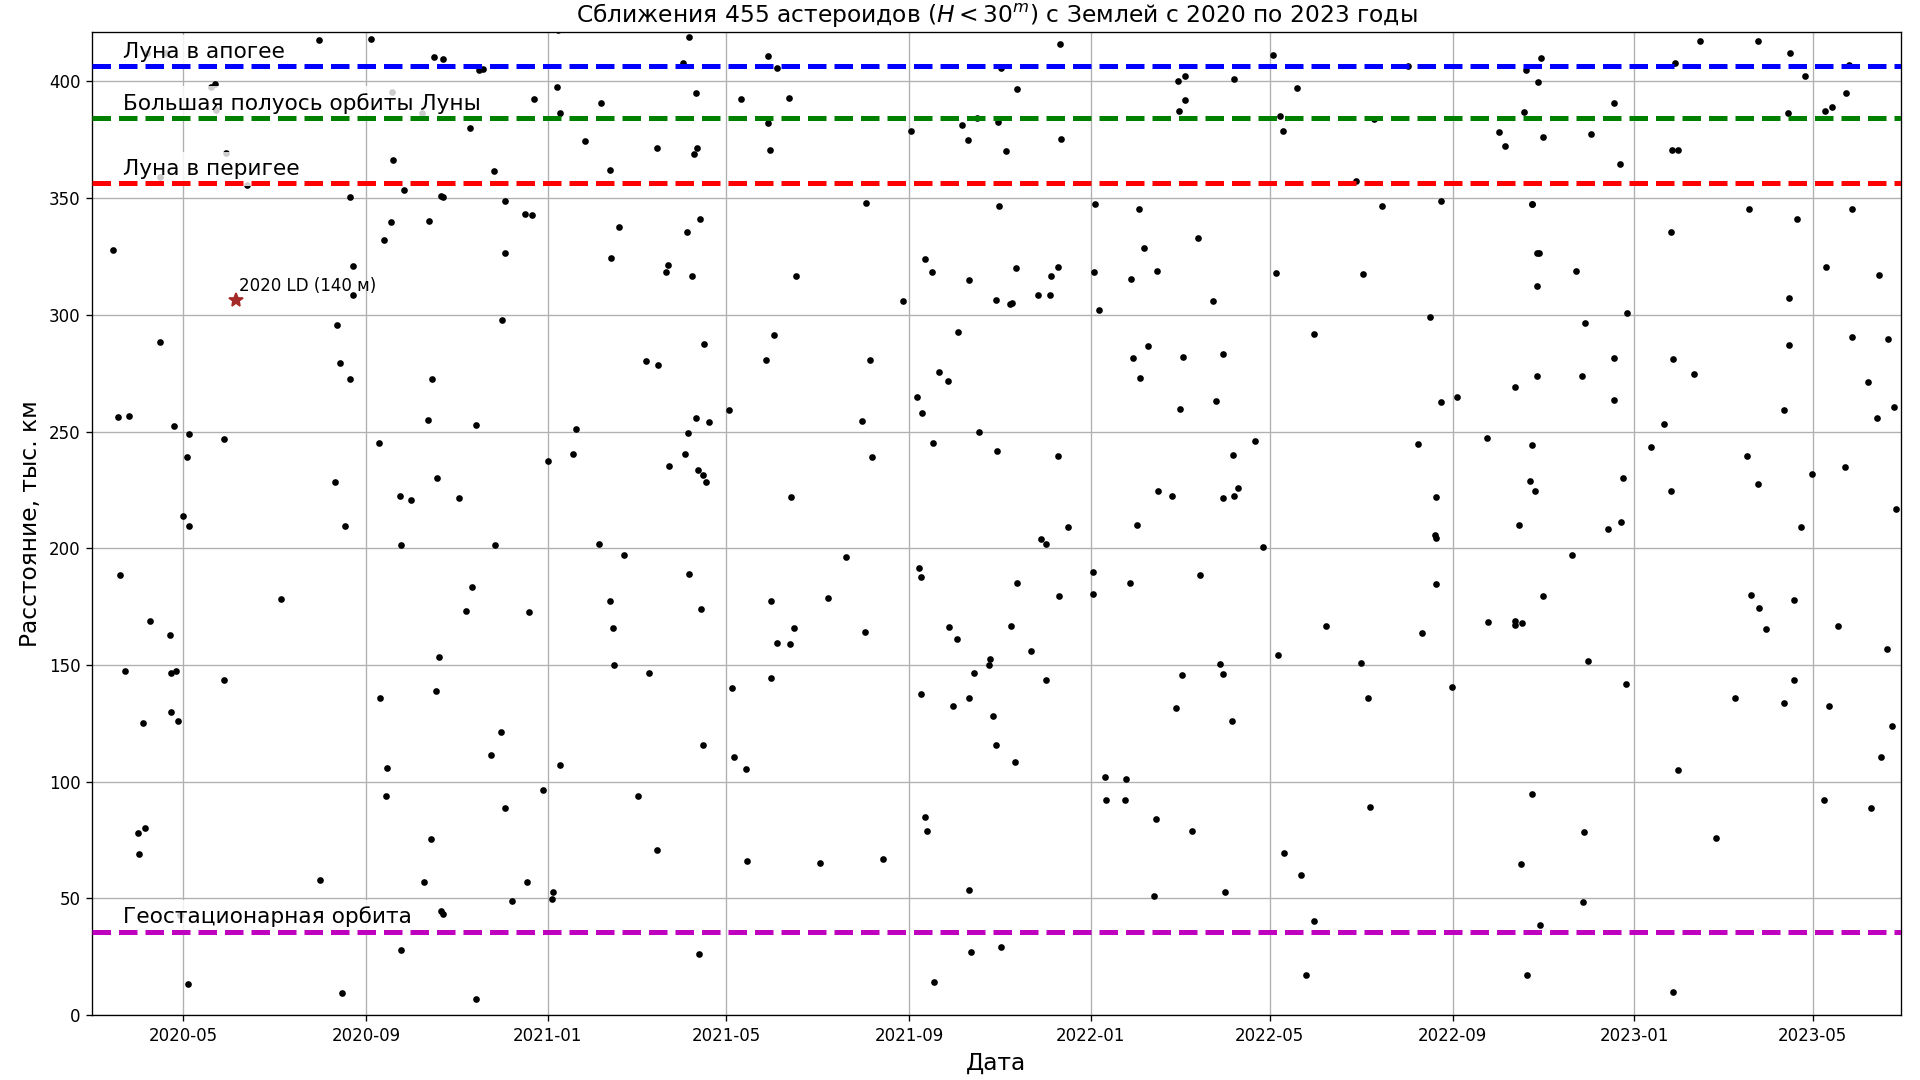
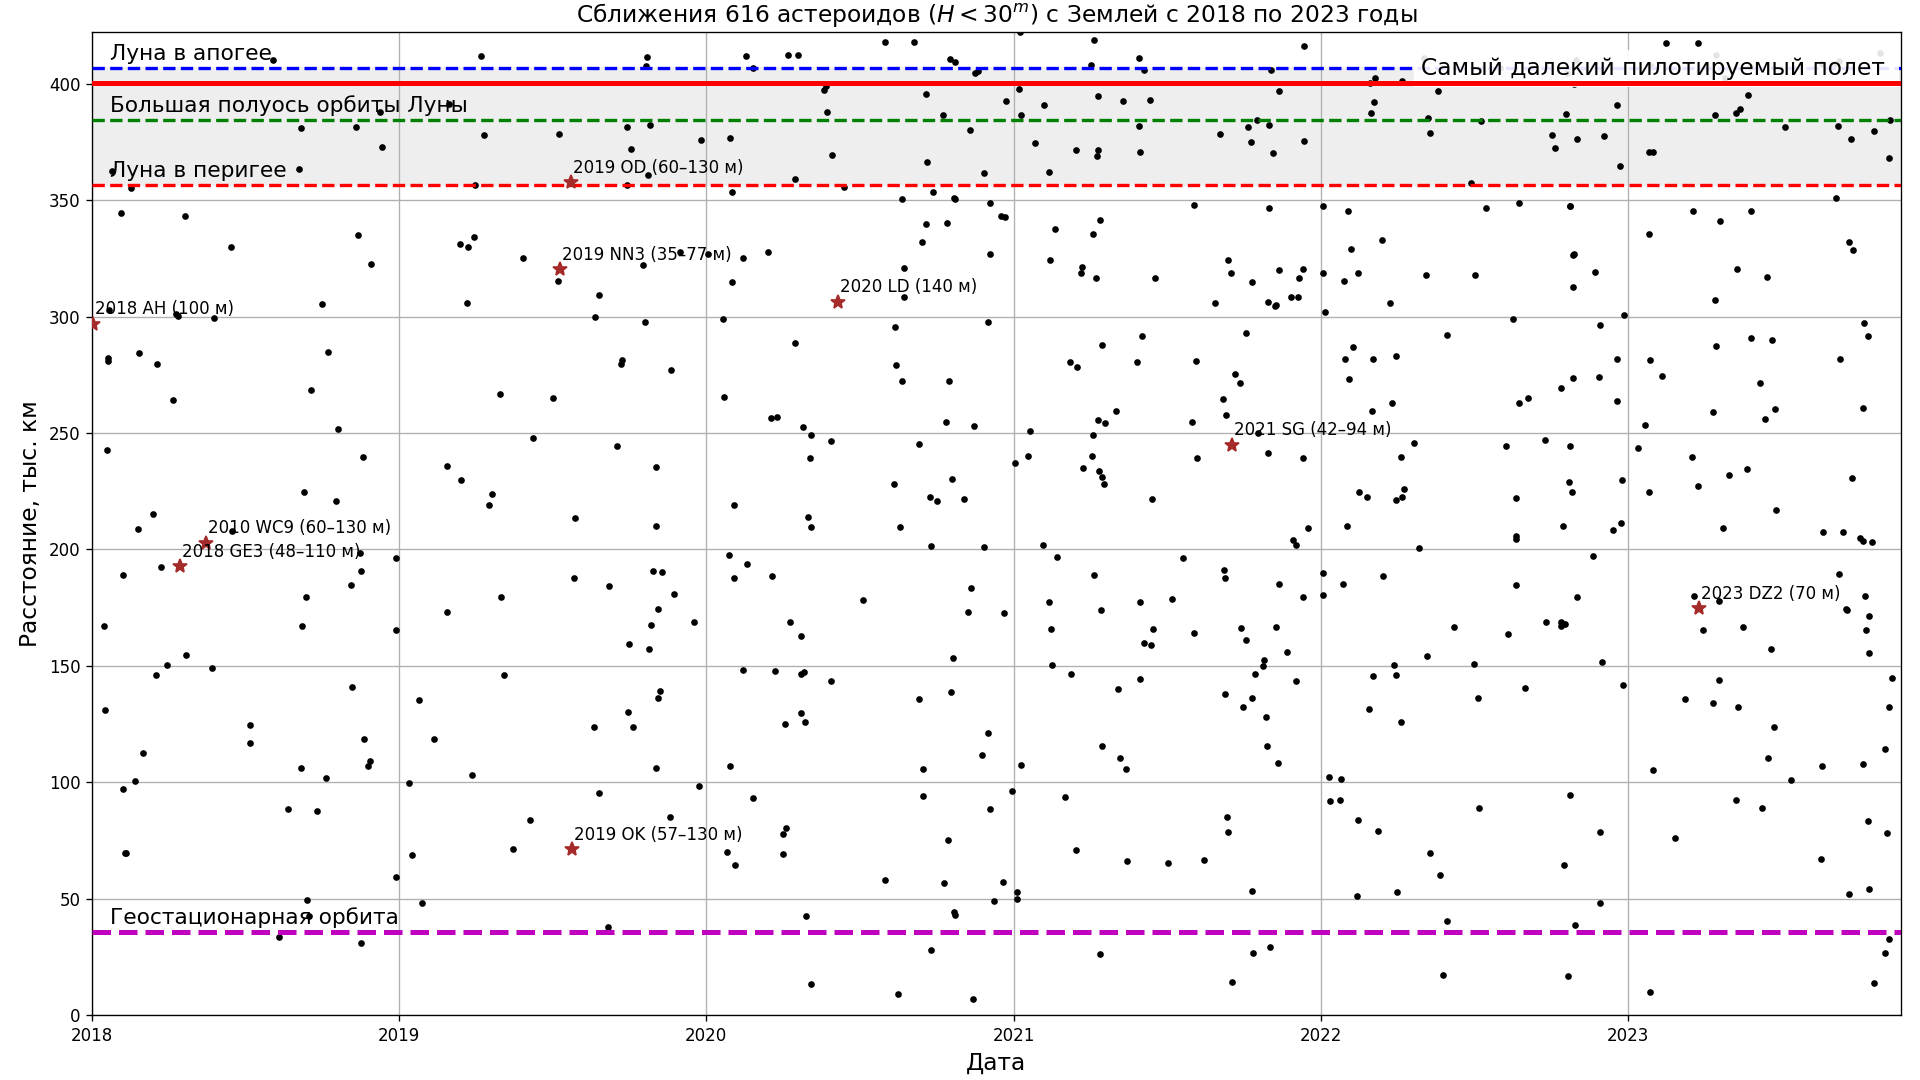
update plot, add code

diff --git a/src/astrodata/solarsystem/plot_close_approaches.py b/src/astrodata/solarsystem/plot_close_approaches.py
@@ -1,0 +1,106 @@
+"""Python script for plotting a chart with close asteroid approaches
+at a distance of up to 1.1 LD (~422800 km) using a Small-Body DataBase
+(SBDB) Close-Approach Data API.
+Data source: https://ssd-api.jpl.nasa.gov/doc/cad.html
+"""
+
+import json
+import urllib.request
+from datetime import datetime, timedelta
+
+import matplotlib.pyplot as plt
+
+
+TODAY = datetime.now()
+DIST_MAX = "1.1"
+MOON_DIST = (356353, 384399, 406720)
+HMAX = 30
+START = datetime(2018, 1, 1)
+DATE_LIM = START.strftime("%Y-%m-%d")
+URL = f"https://ssd-api.jpl.nasa.gov/cad.api?dist-max={DIST_MAX}LD&date-min={DATE_LIM}&h-max={HMAX}&sort=h"
+AE = 149597.8707
+
+with urllib.request.urlopen(URL) as data_json_bin:
+    data = json.load(data_json_bin)
+COUNT = data.get("count")
+# FIELDS = data.get('fields')
+data = data.get("data")
+names, dates, dist = [], [], []
+for ast in data:
+    names.append(ast[0])
+    dat = datetime.strptime(ast[3], "%Y-%b-%d %H:%M")
+    dist.append(float(ast[4]) * AE)
+    dates.append(dat)
+
+LIMITS = (START, TODAY + timedelta(9))
+DTSHIFT = START + timedelta(21)
+ZO = 4
+
+fig, ax = plt.subplots(figsize=(16, 9))
+fig.subplots_adjust(0.048, 0.06, 0.99, 0.97)
+ax.plot(dates, dist, ".k", zorder=3)
+
+NAMSIZE = {
+    "2010 WC9": "60–130",
+    "2018 AH": "100",
+    "2018 GE3": "48–110",
+    "2019 NN3": "35–77",
+    "2019 OD": "60–130",
+    "2019 OK": "57–130",
+    "2020 LD": "140",
+    "2021 SG": "42–94",
+    "2023 DZ2": "70",
+}
+for i, nam in enumerate(names[:9]):
+    if nam in NAMSIZE.keys():
+        t = plt.annotate(
+            f"{nam} ({NAMSIZE[nam]} м)",
+            (dates[i] + timedelta(2.5), dist[i] + 4),
+            fontsize=10, zorder=8,
+        )
+        ax.plot(dates[i], dist[i], c="brown", marker="*", ms=9, zorder=7)
+
+t = plt.annotate(
+    "Луна в перигее", (DTSHIFT, 3.5 + MOON_DIST[0] / 1000), fontsize=13, zorder=ZO
+)
+# t.set_bbox(dict(facecolor='white', alpha=0.8, edgecolor='white', linewidth=0))
+aa1 = ax.plot(LIMITS, [MOON_DIST[0] / 1000, MOON_DIST[0] / 1000], "--r", lw=2, zorder=5)
+t = plt.annotate(
+    "Большая полуось орбиты Луны",
+    (DTSHIFT, 3.5 + MOON_DIST[1] / 1000),
+    fontsize=13, zorder=ZO,
+)
+# t.set_bbox(dict(facecolor='white', alpha=0.8, edgecolor='white', linewidth=0))
+ax.plot(LIMITS, [MOON_DIST[1] / 1000, MOON_DIST[1] / 1000], "--g", lw=2, zorder=5)
+t = plt.annotate(
+    "Луна в апогее", (DTSHIFT, 3.5 + MOON_DIST[2] / 1000), fontsize=13, zorder=ZO
+)
+# t.set_bbox(dict(facecolor='white', alpha=0.8, edgecolor='white', linewidth=0))
+aa0 = ax.plot(LIMITS, [MOON_DIST[2] / 1000, MOON_DIST[2] / 1000], "--b", lw=2, zorder=5)
+t = plt.annotate(
+    "Геостационарная орбита", (DTSHIFT, 3.5 + 35.786), fontsize=13, zorder=ZO
+)
+# t.set_bbox(dict(facecolor='white', alpha=0.8, edgecolor='white', linewidth=0))
+ax.plot(LIMITS, [35.786, 35.786], "--m", lw=3, zorder=5)
+t = plt.annotate(
+    "Самый далекий пилотируемый полет ",
+    (datetime(2022, 4, 30), 3.5 + 400.171),
+    fontsize=14, zorder=6,
+)
+t.set_bbox(dict(facecolor="white", alpha=0.9, edgecolor="white", linewidth=0))
+ax.plot(LIMITS, [400.171, 400.171], "-r", lw=3, zorder=7)
+
+ax.fill_between(LIMITS, MOON_DIST[0] / 1000, MOON_DIST[2] / 1000, color="#eee")
+
+plt.xlim(LIMITS)
+plt.ylim(0, 422)
+plt.grid()
+plt.ylabel("Расстояние, тыс. км", fontsize=14)
+plt.xlabel("Дата", fontsize=14)
+plt.title(
+    "Сближения "
+    + str(COUNT)
+    + f" астероидов ($ H<30^m$) с Землей с {START.year} по 2023 годы",
+    fontsize=14,
+)
+plt.savefig("../../../plots/solarsystem/asteroid-close-approaches-ru.png", dpi=120)

diff --git a/src/astrodata/solarsystem/README.md b/src/astrodata/solarsystem/README.md
@@ -16,7 +16,8 @@ Data source: [IAU Minor Planet Center, The MPC Orbit (MPCORB) Database](https://
 * Close approaches
 ![Asteroid close approaches at a distance of up to 1.1 LD](../../../plots/solarsystem/asteroid-close-approaches-1ld-ru.png)
 Data source: [Small-Body DataBase (SBDB) Close-Approach Data API](https://ssd-api.jpl.nasa.gov/doc/cad.html),
-[data query for D < 1.1 lunar distances after 2020-03-01 to H < 30 sorted by absolute magnitude H (mag)](https://ssd-api.jpl.nasa.gov/cad.api?dist-max=1.1LD&date-min=2020-03-01&h-max=30&sort=h)
+[data query for D < 1.1 lunar distances after 2020-03-01 to H < 30 sorted by absolute magnitude H (mag)](https://ssd-api.jpl.nasa.gov/cad.api?dist-max=1.1LD&date-min=2020-03-01&h-max=30&sort=h).  
+Code: [python script for plotting a chart with close asteroid approaches](./plot_close_approaches.py)
 
 ## Dependencies
 
